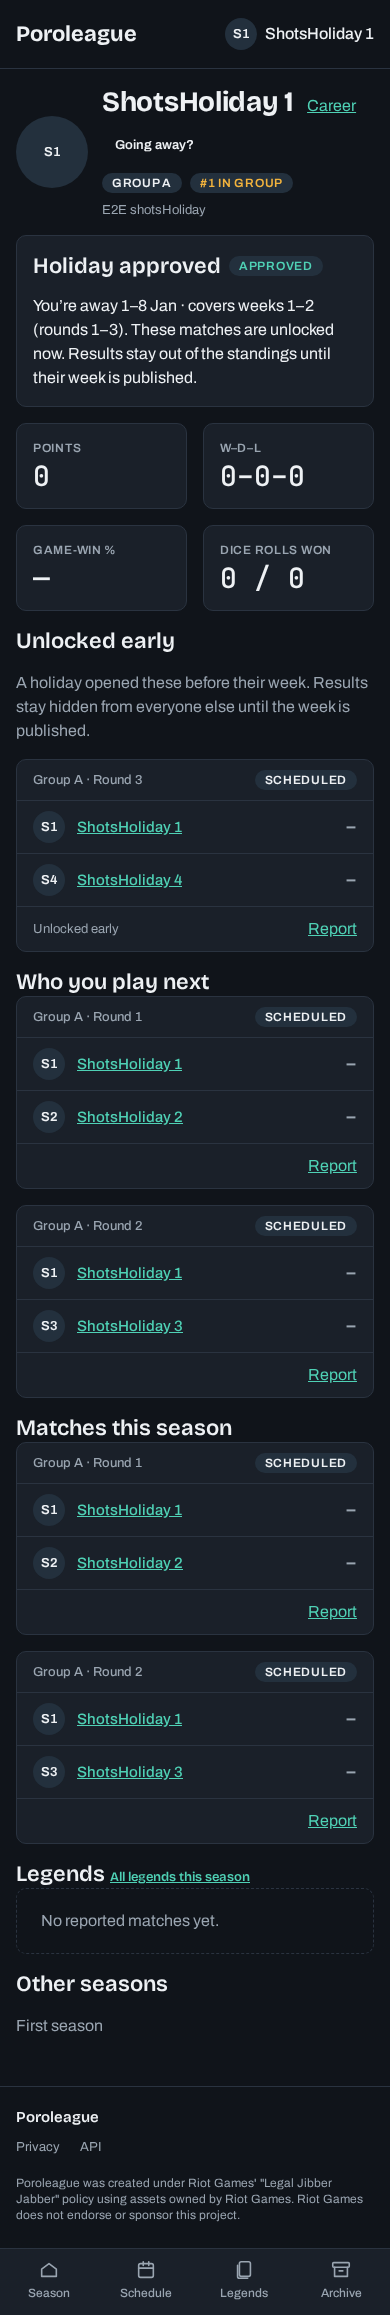
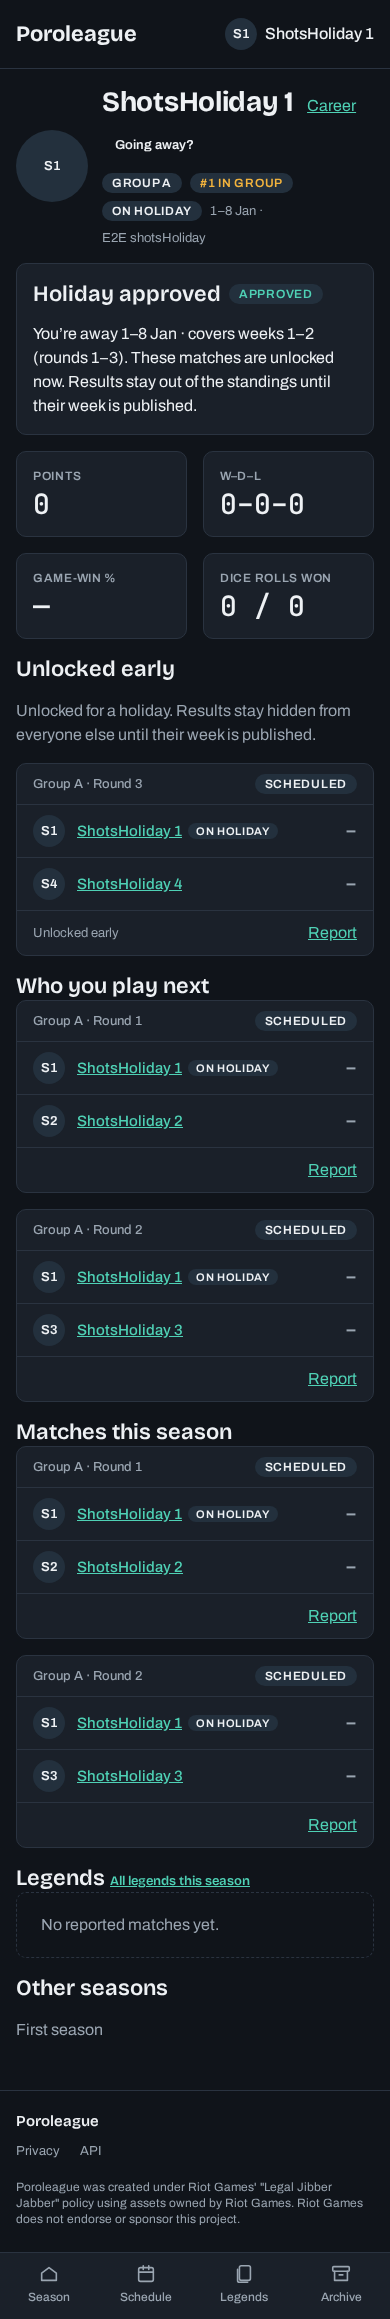
test(shots): On holiday tags and an early result on the match page

diff --git a/shots/holiday.spec.ts b/shots/holiday.spec.ts
@@ -1,6 +1,6 @@
 // Holiday mode: requests, the organizer's Holidays section and matches unlocked early.
 import { test } from '@playwright/test';
-import { freezeTimes, removeSeason, seedHoliday, seedSeason } from '../e2e/db.ts';
+import { freezeTimes, removeSeason, seedHoliday, seedResult, seedSeason } from '../e2e/db.ts';
 import { ORGANIZER as org, SEASONS, player } from '../e2e/fixtures.ts';
 import { NOW, day } from './now.ts';
 import { shot } from './shot.ts';
@@ -24,4 +24,7 @@ test('holidays', async ({ browser }) => {
 	await shot(browser, 'org-season-holidays', `${s}/admin/season`, org);
 	await shot(browser, 'player-holiday-unlocked', `${s}/players/${p1}`, p1);
 	await shot(browser, 'player-match-early', `${s}/matches/${ids[4]}`, p1);
+	seedResult(ids[4], 2, 1);
+	freezeTimes(NOW);
+	await shot(browser, 'player-match-early-reported', `${s}/matches/${ids[4]}`, p1);
 });
